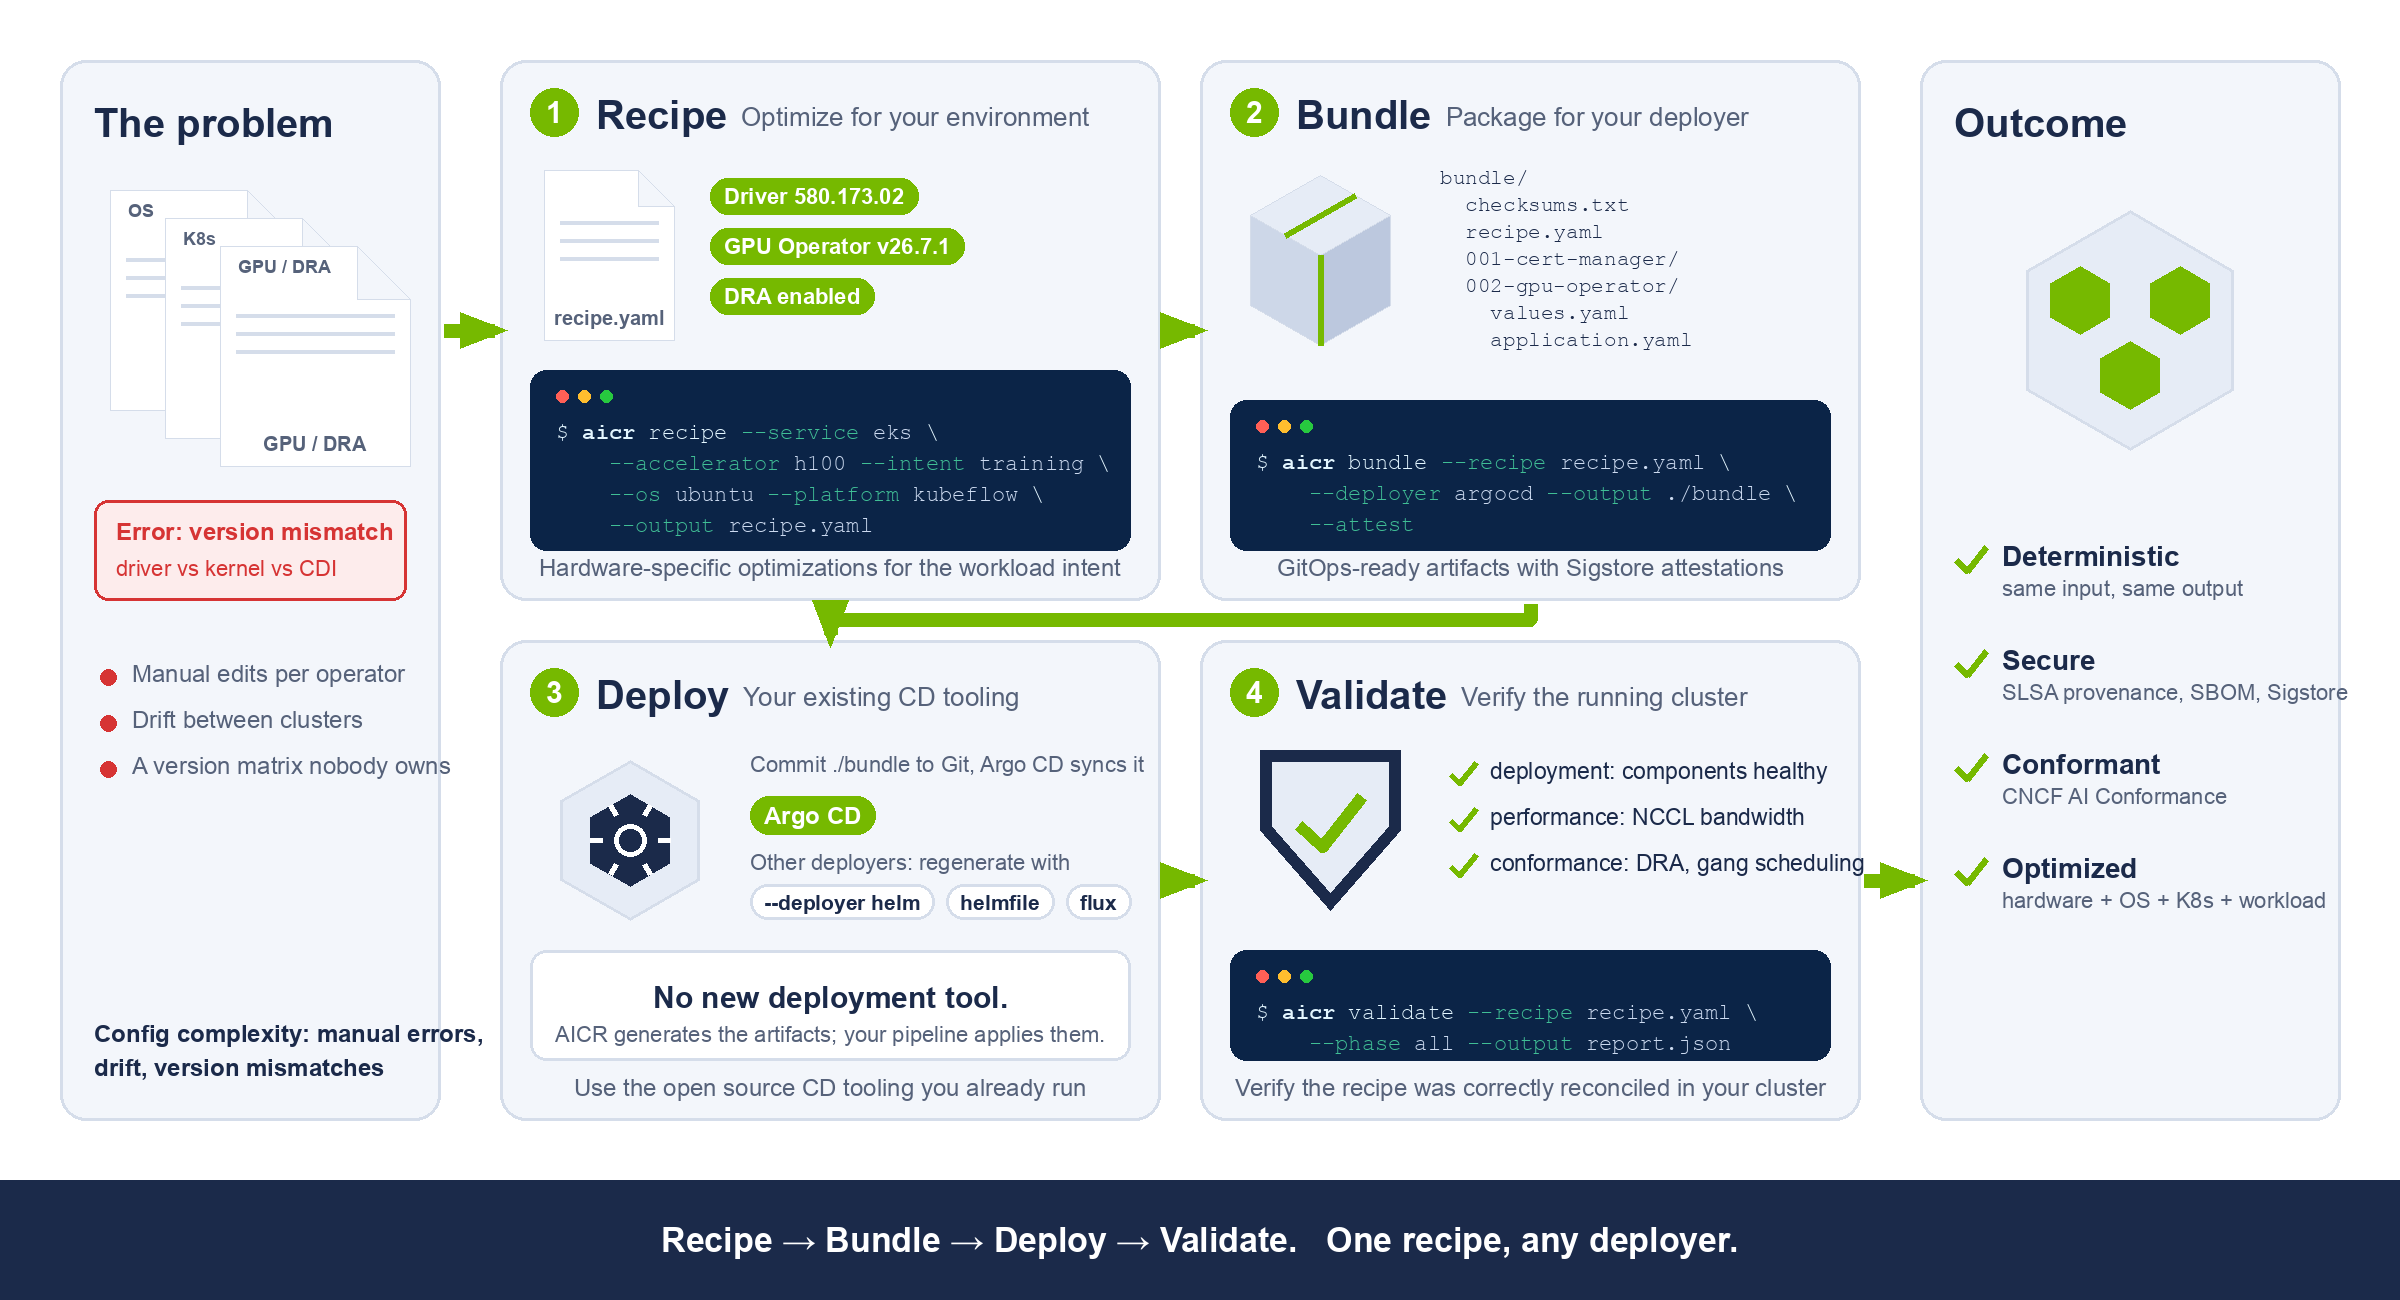
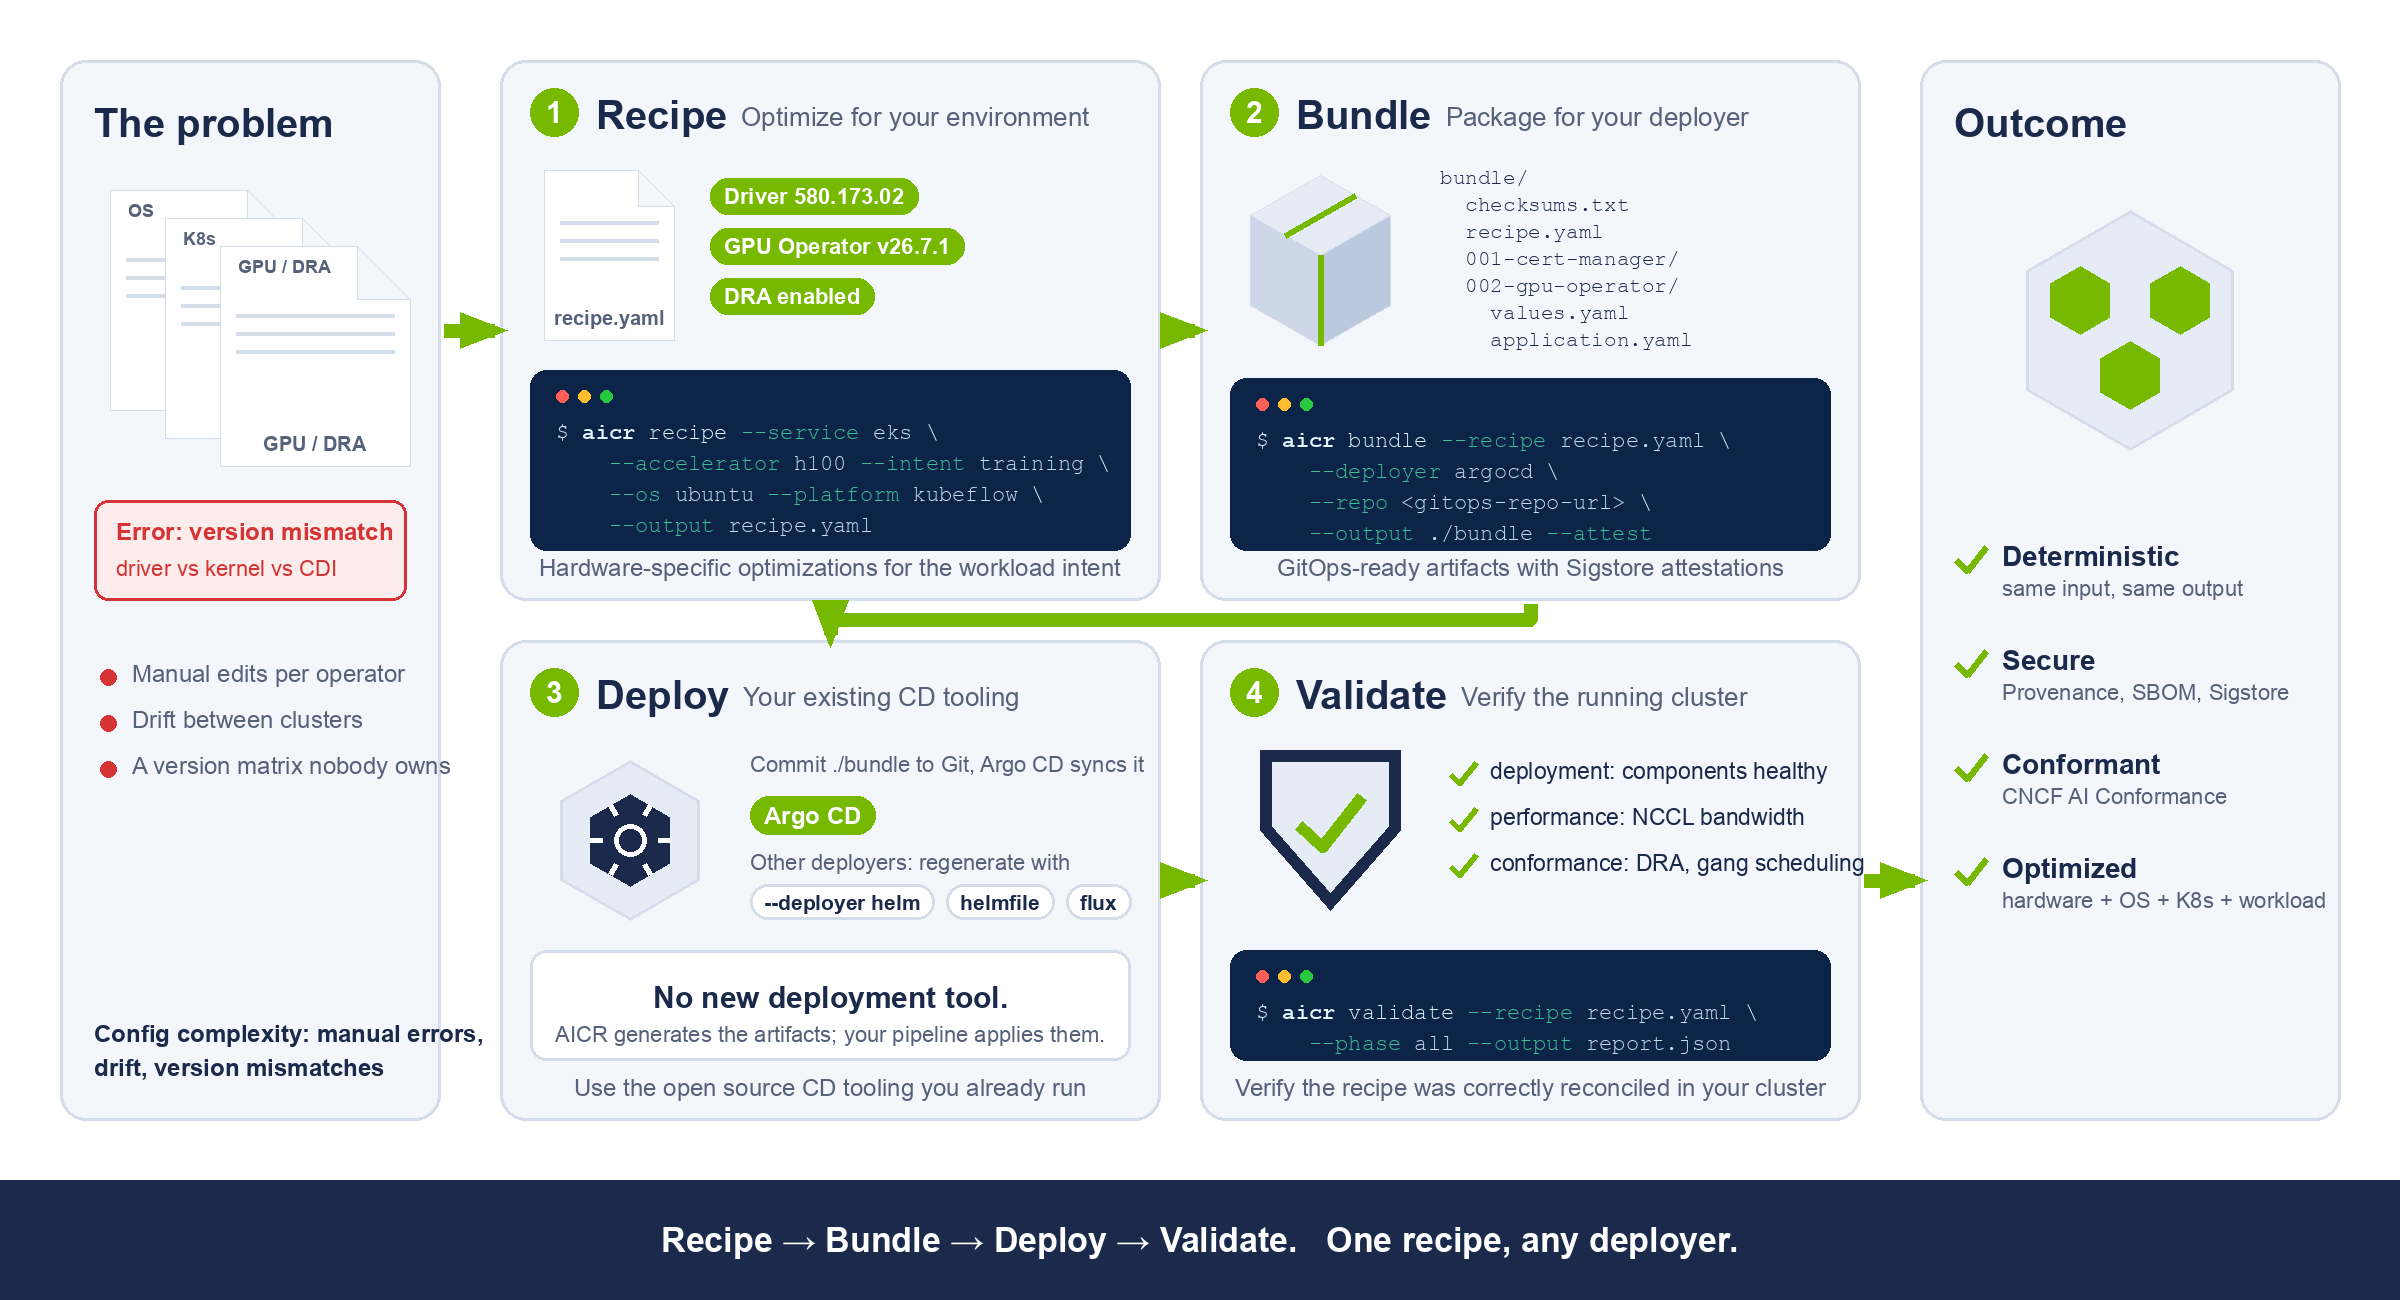
docs(demos): pass --repo before attesting the Argo CD bundle; fit the Secure caption

Changed region(s): [[0.5, 0.2769, 0.7812, 0.4308], [0.8438, 0.5231, 0.9688, 0.5538]]

diff --git a/demos/images/e2e-kubecon.md b/demos/images/e2e-kubecon.md
@@ -22,7 +22,7 @@ Caption: "Generate hardware-specific optimizations for workload intent"
 
 **Step 2 - BUNDLE**
 Icon: Shipping box with a GitOps logo
-Command: `aicr bundle --recipe recipe.yaml --deployer argocd --output ./bundle --attest`
+Command: `aicr bundle --recipe recipe.yaml --deployer argocd --repo <gitops-repo-url> --output ./bundle --attest`
 Visual: The recipe transforms into deployment-ready artifacts:
 
 ```shell
@@ -66,6 +66,7 @@ Benefits (icon + two to four words each):
 - Flow: Problem (standalone) → 4-step workflow chain → Outcome
 - Step order is fixed and must be numbered in the image exactly as above: 1 Recipe (top-left), 2 Bundle (top-right), 3 Deploy (bottom-left), 4 Validate (bottom-right). Validate is the last step; it never precedes Bundle or Deploy
 - No header bar, title text, or logo inside the image: the hosting slide carries the title and the conference branding
+- `--repo` is the Git repository the bundle will be committed to; Argo CD Applications embed it, and it must be set before `--attest` signs the inventory
 - Exactly one command per step, rendered in a terminal overlay; copy the commands above character for character and do not invent flags
 - Terminal overlays: light text on the dark panel with strong contrast; dim grey on navy is not acceptable
 - Minimum text size: every caption and command must stay legible when the whole image is projected at 1600 px wide. Prefer fewer, larger labels; if a command does not fit on two lines at that size, drop the Step 1 `--os` and `--platform` flags before shrinking the font
